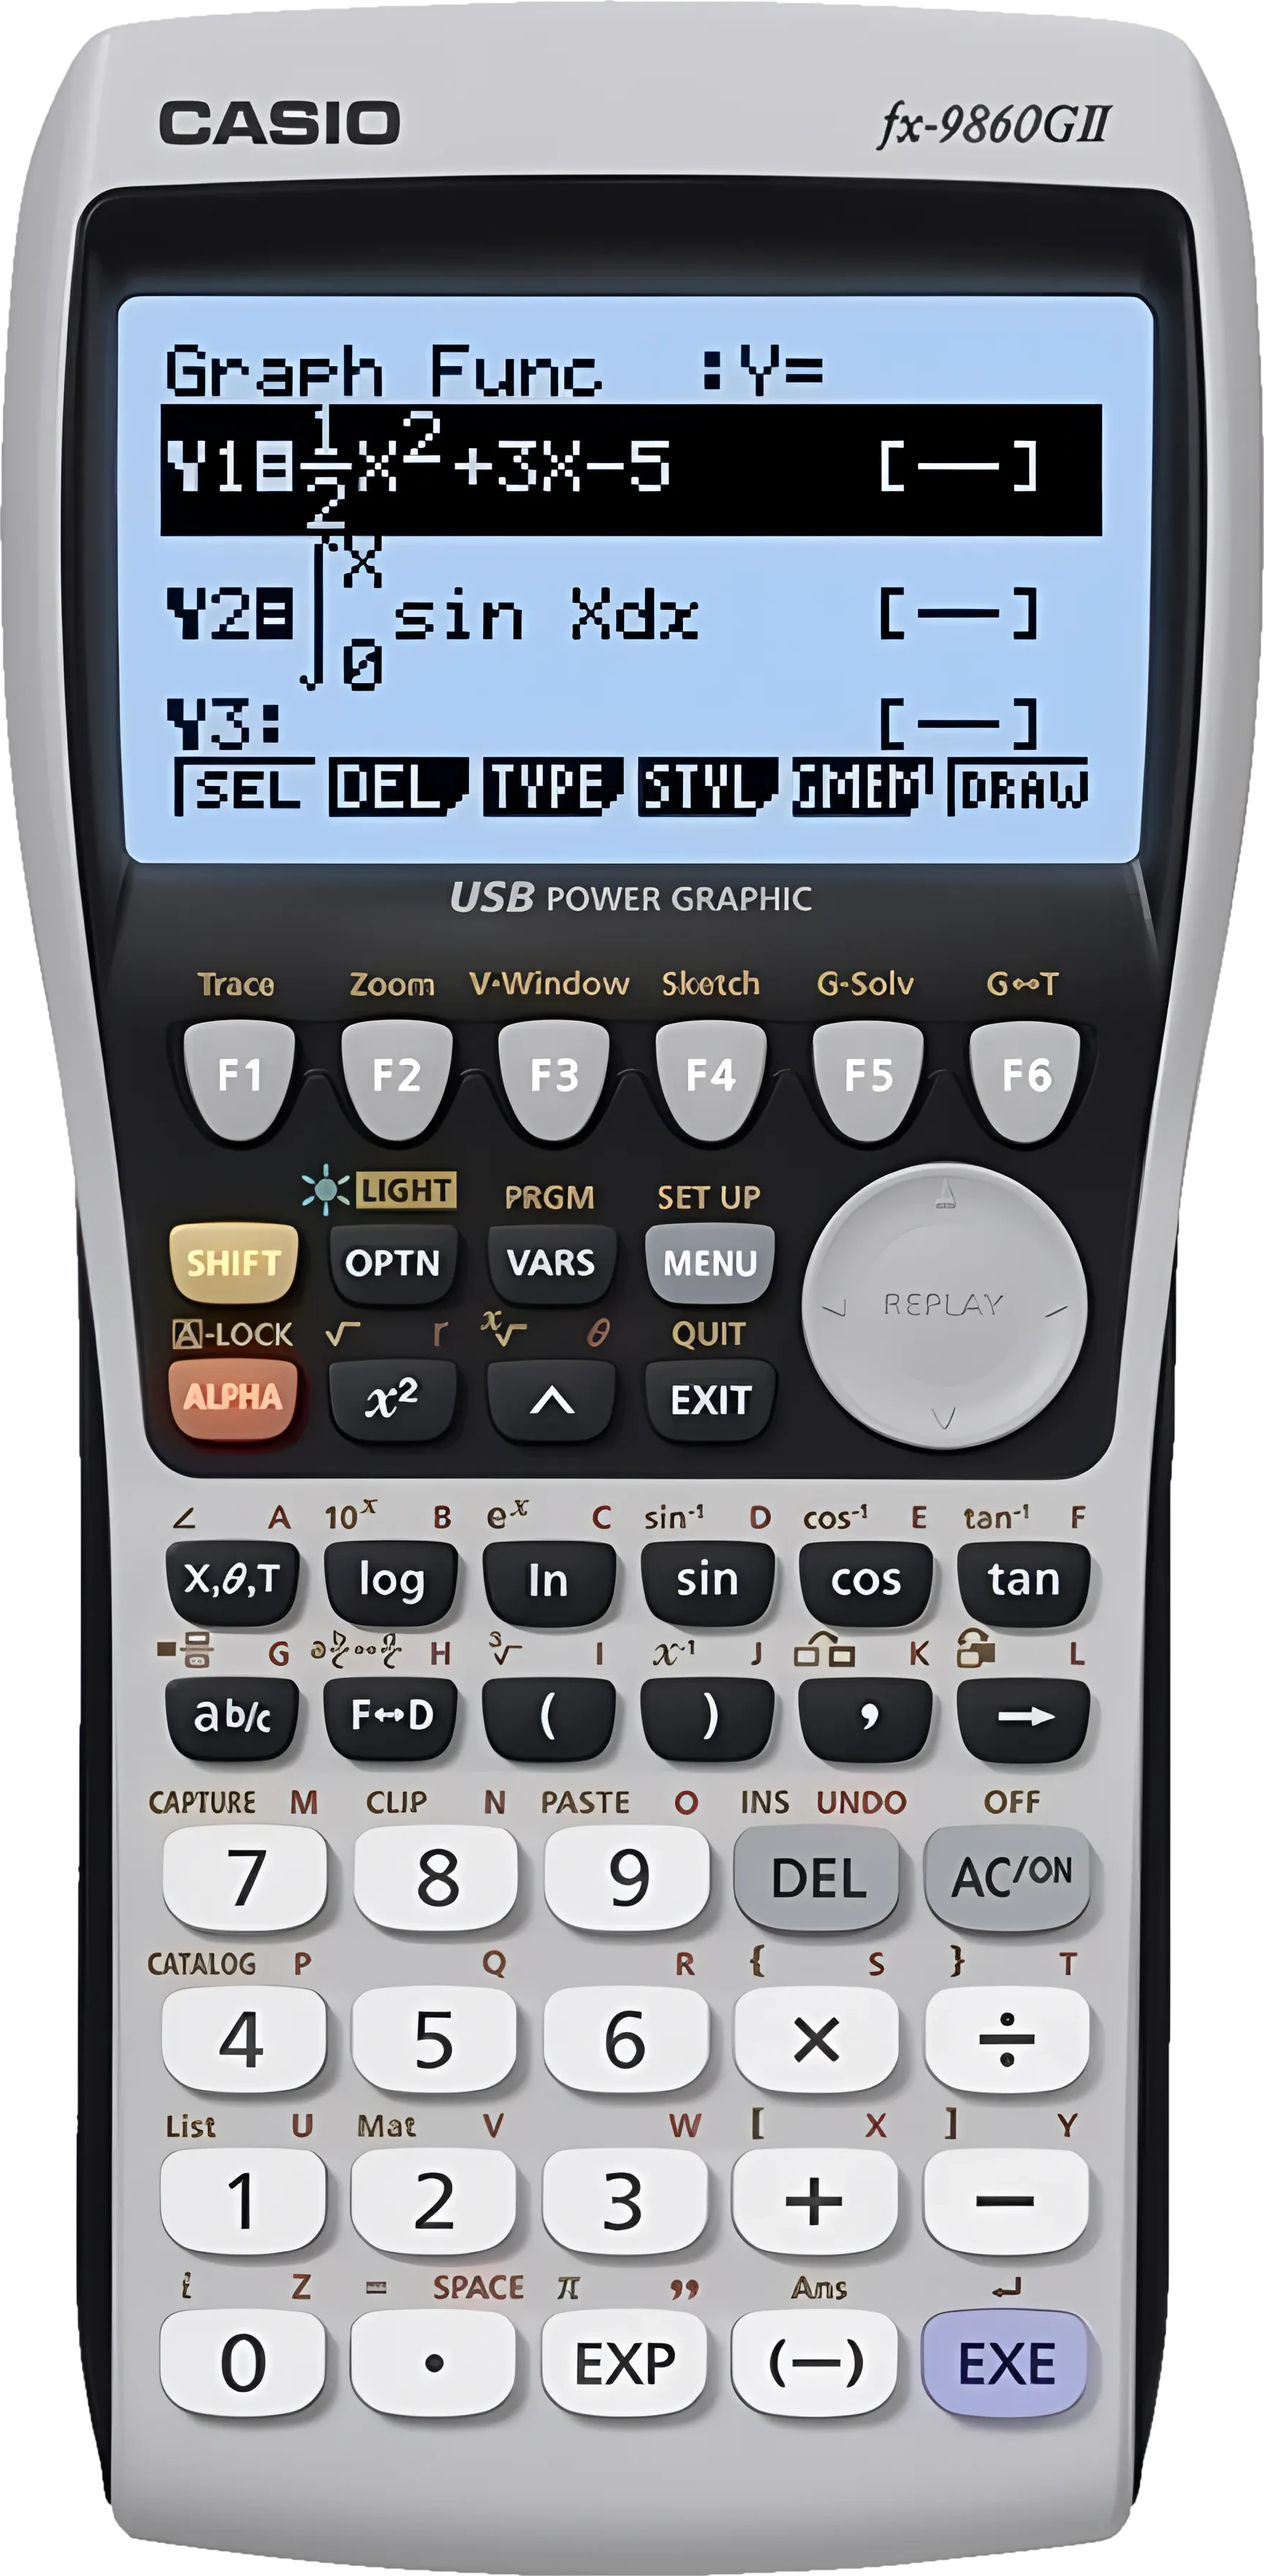
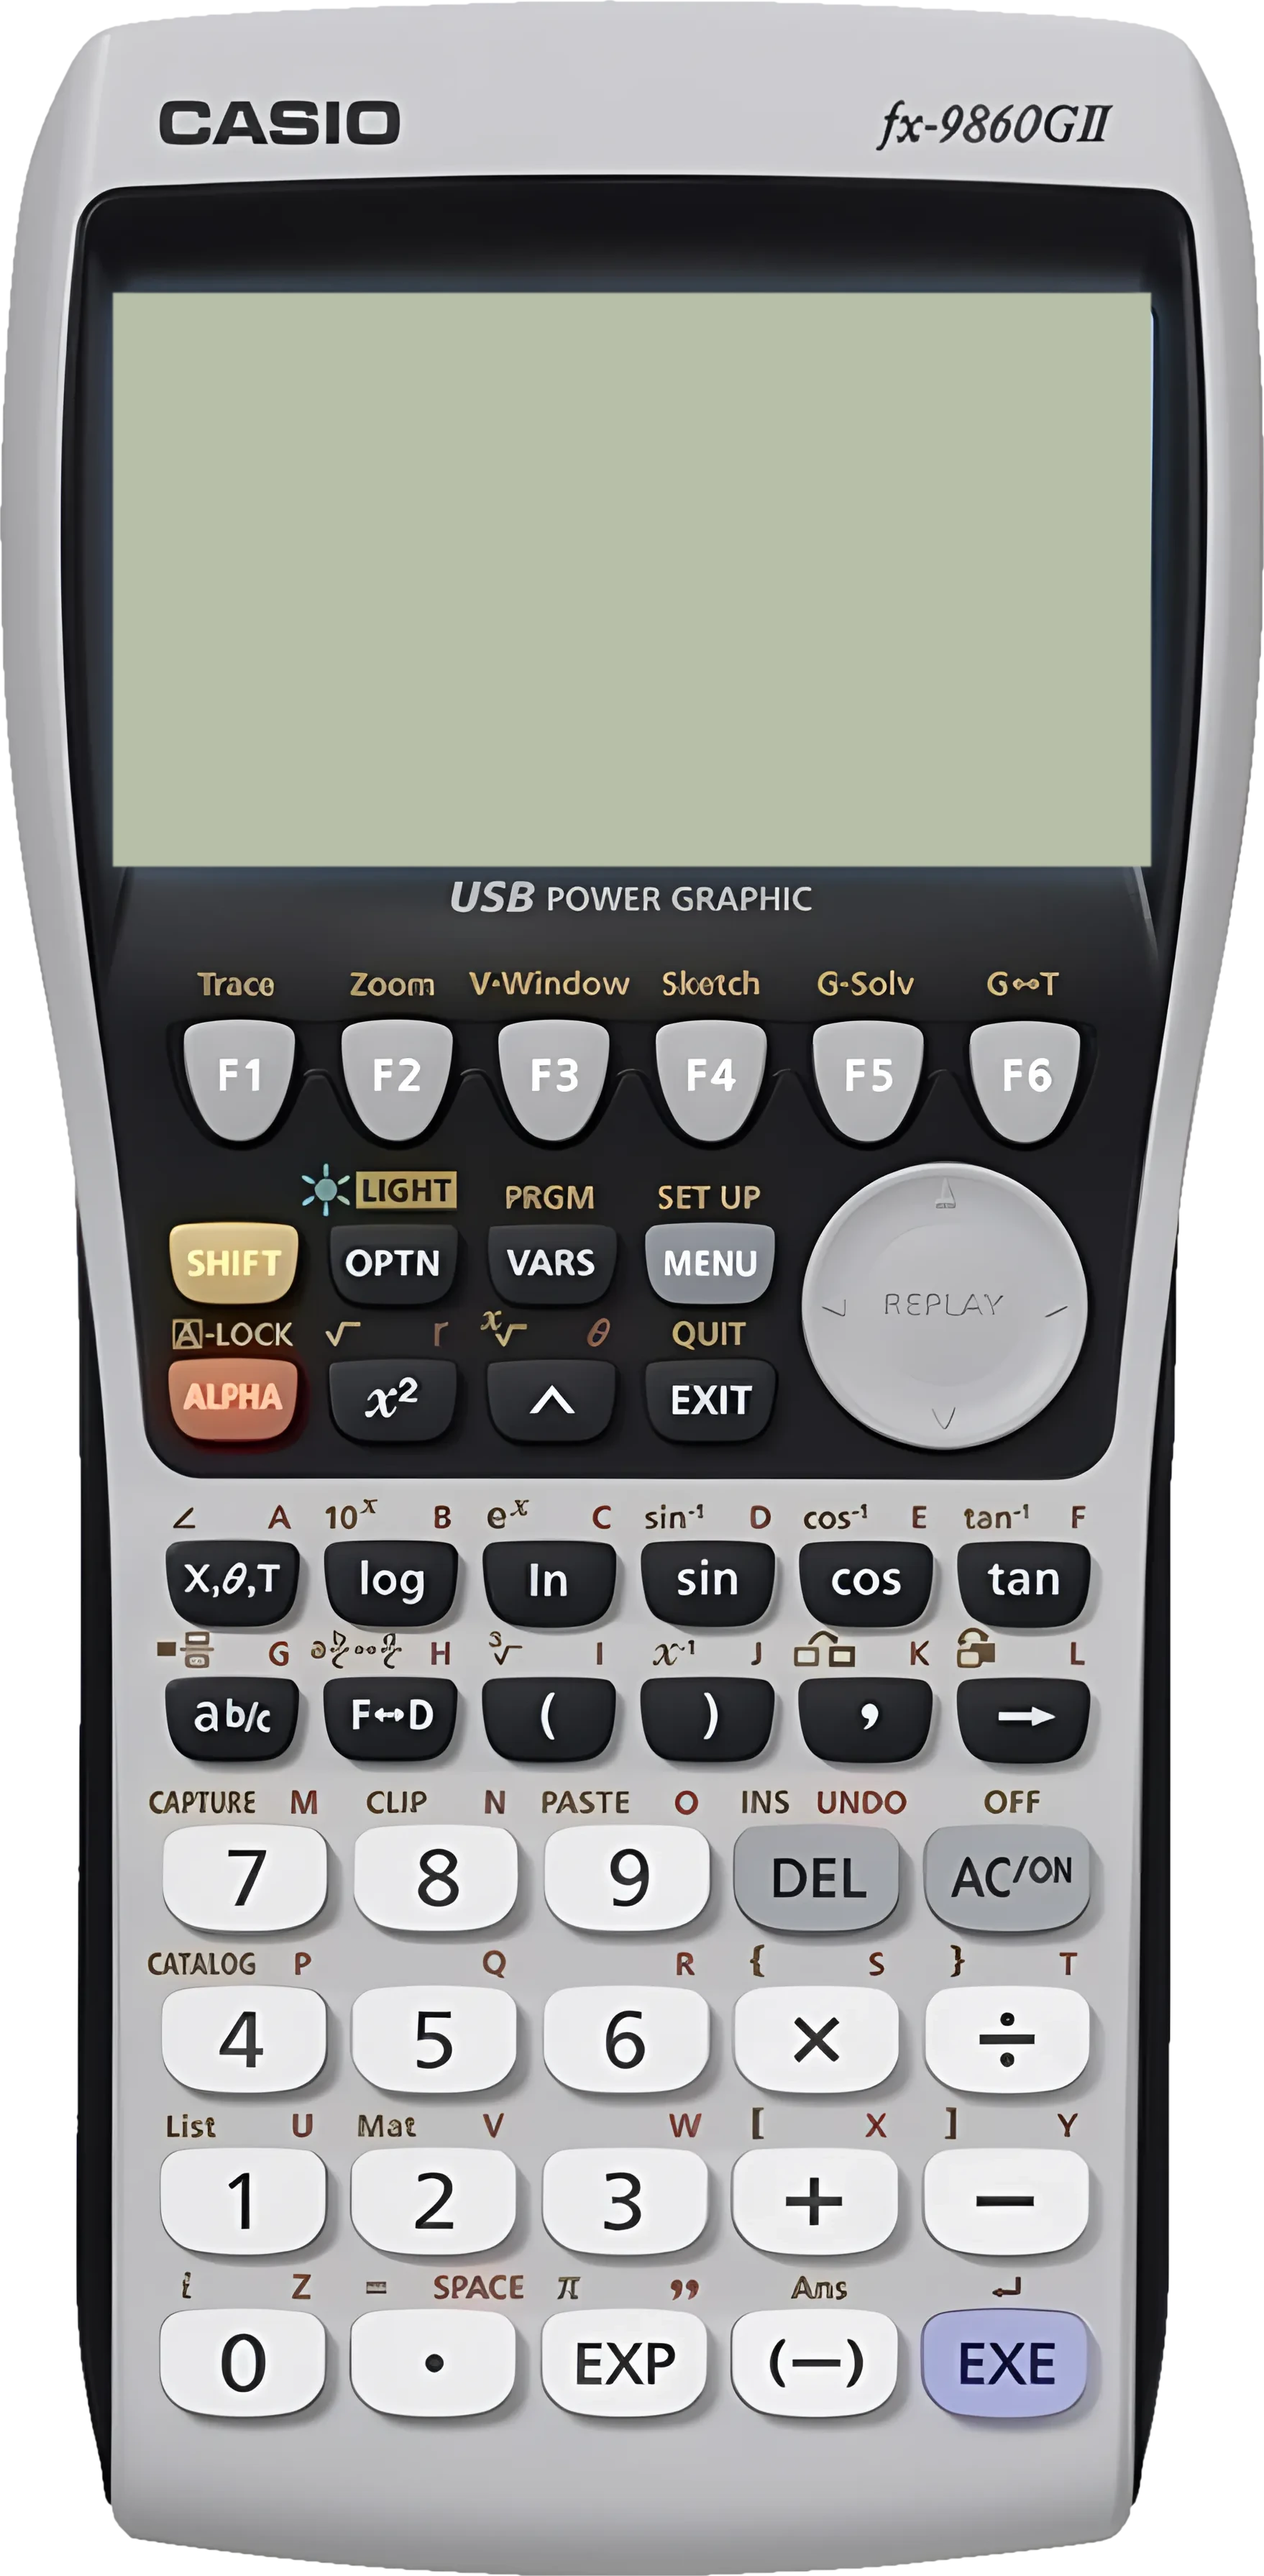
Lighter background with shadow, blank LCD in the skin, softer key press

Changed region(s): [[0.0614, 0.093, 0.9215, 0.3409]]

diff --git a/web/index.html b/web/index.html
@@ -8,14 +8,15 @@
 <meta name="mobile-web-app-capable" content="yes">
 <meta name="apple-mobile-web-app-status-bar-style" content="black-translucent">
 <meta name="apple-mobile-web-app-title" content="fx-9860GII">
-<meta name="theme-color" content="#11161c">
+<meta name="theme-color" content="#3b434e">
 <link rel="manifest" href="manifest.webmanifest">
 <link rel="apple-touch-icon" href="icon-180.png">
 <link rel="icon" href="icon-192.png">
 <style>
-  :root { --bg: #11161c; }
+  :root { --bg: #3b434e; }
   * { box-sizing: border-box; -webkit-tap-highlight-color: transparent; }
   html, body { margin: 0; height: 100%; background: var(--bg); overflow: hidden;
+    background-image: radial-gradient(120% 75% at 50% 32%, #5d6775 0%, #3b434e 55%, #232931 100%);
     -webkit-user-select: none; user-select: none; -webkit-touch-callout: none;
     touch-action: none; font-family: -apple-system, system-ui, sans-serif; }
   /* Top: below the status bar. Bottom: the keys may reach down to the home indicator. */
@@ -23,12 +24,15 @@
     6px env(safe-area-inset-left); display: flex; align-items: center; justify-content: center; }
   #view { position: relative; flex: none; }
   #calc { position: absolute; left: 0; top: 0; transform-origin: 0 0; }
-  #skin { position: absolute; left: 0; top: 0; pointer-events: none; }
+  /* The shadow lifts the calculator off the background, so it reads as an object, not a pasted picture. */
+  #skin { position: absolute; left: 0; top: 0; pointer-events: none;
+    filter: drop-shadow(0 5px 9px rgba(0, 0, 0, 0.5)); }
   #glass { position: absolute; transition: background-color 0.15s; }
   #lcd { position: absolute; image-rendering: pixelated; image-rendering: crisp-edges; }
   .hit { position: absolute; border-radius: 14px; }
   .hit.pad { border-radius: 50%; }
-  .hit.on { background: rgba(255, 255, 255, 0.32); }
+  /* A pressed key darkens softly from its centre, without a visible box around it. */
+  .hit.on { background: radial-gradient(closest-side, rgba(0, 0, 0, 0.34), rgba(0, 0, 0, 0.2) 55%, rgba(0, 0, 0, 0) 100%); }
   /* "•••" menu button and turbo badge in the dark panel, next to "USB POWER GRAPHIC 2" */
   #menubtn { position: absolute; left: 380px; top: 297px; width: 58px; height: 32px; border-radius: 16px;
     display: flex; align-items: center; justify-content: center; gap: 4px; }

diff --git a/make_photo_skin.py b/make_photo_skin.py
@@ -68,6 +68,11 @@ body = fill.point(lambda v: 0 if v == 128 else 255).filter(ImageFilter.MinFilter
 body = body.resize(photo.size, Image.BICUBIC).filter(ImageFilter.GaussianBlur(2.0))
 body = body.point(lambda v: max(0, min(255, round((v - 140) * 2.5 + 128))))
 box = body.point(lambda v: 255 if v > 128 else 0).getbbox()
+# The photo shows a lit screen; blank it, the app draws the real display there.
+blank = Image.new("L", photo.size, 0)
+ImageDraw.Draw(blank).rectangle([GLASS[0] * k - ORIGIN[0] * SCALE, GLASS[1] * k - ORIGIN[1] * SCALE,
+                                 GLASS[2] * k - ORIGIN[0] * SCALE, GLASS[3] * k - ORIGIN[1] * SCALE], fill=255)
+photo.paste(Image.new("RGB", photo.size, LCD_OFF), (0, 0), blank.filter(ImageFilter.GaussianBlur(1.2)))
 skin = photo.convert("RGBA")
 skin.putalpha(body)
 skin = skin.crop(box)
